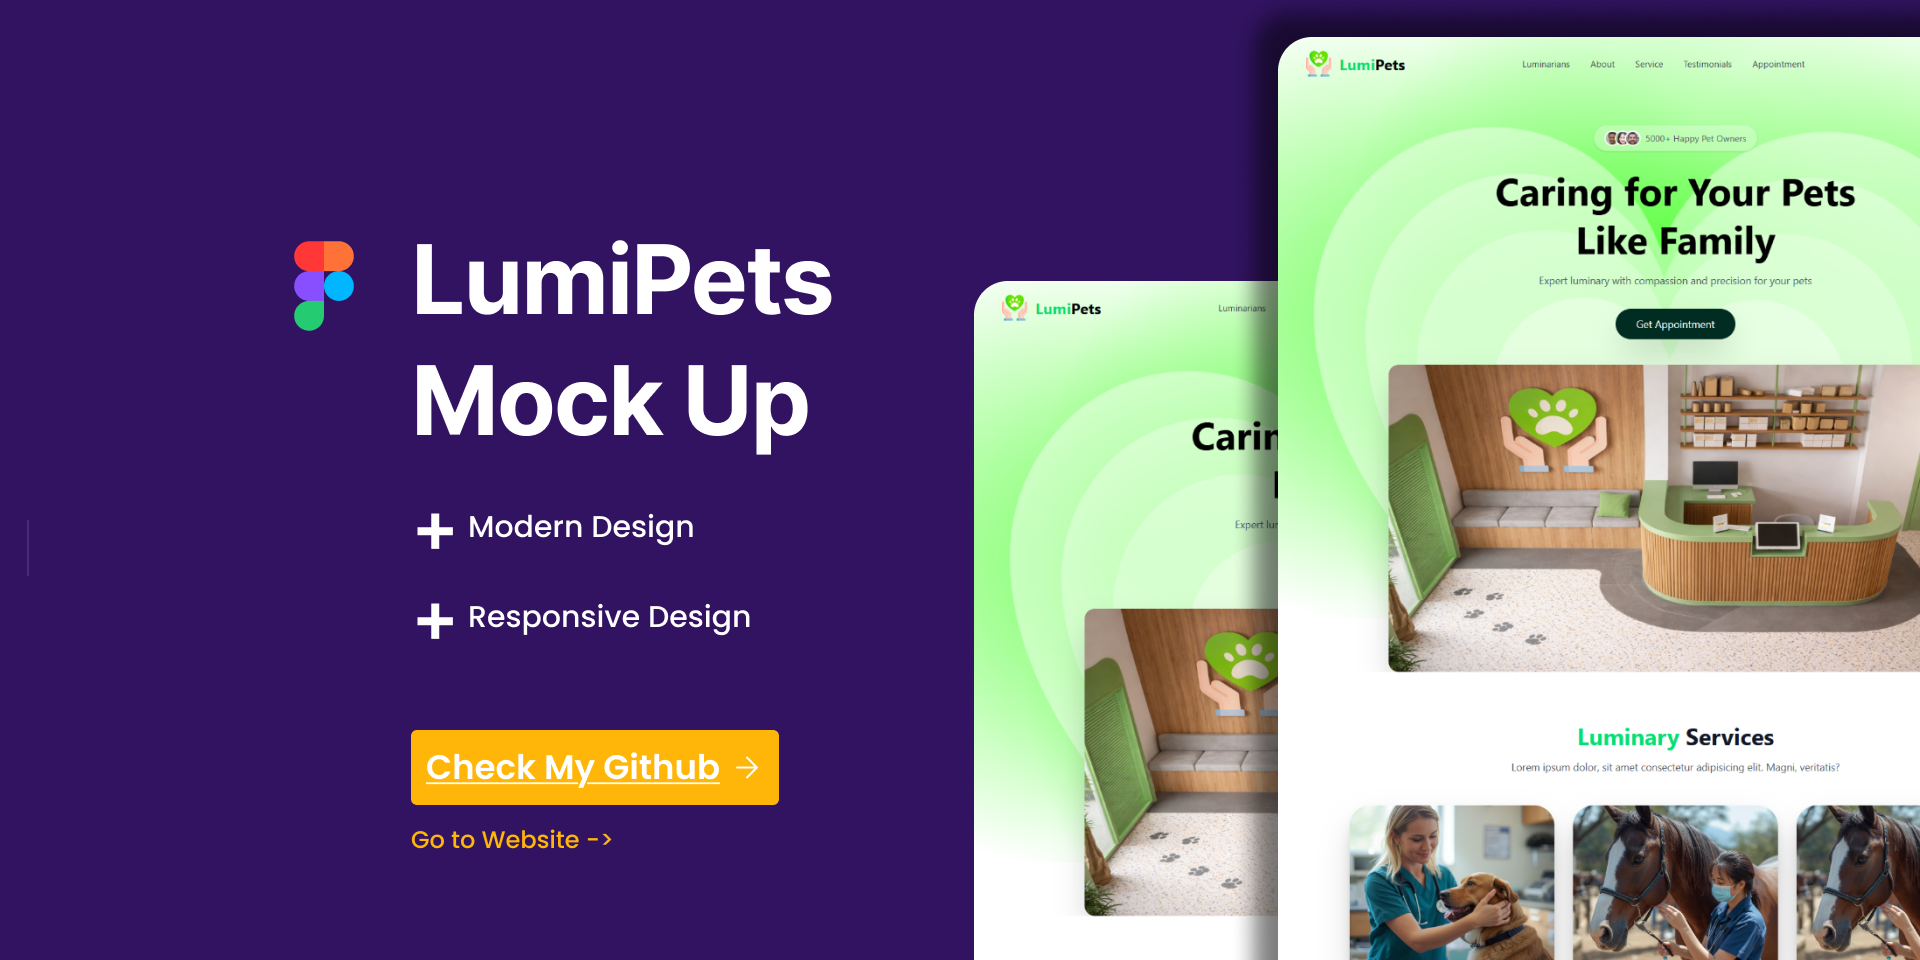
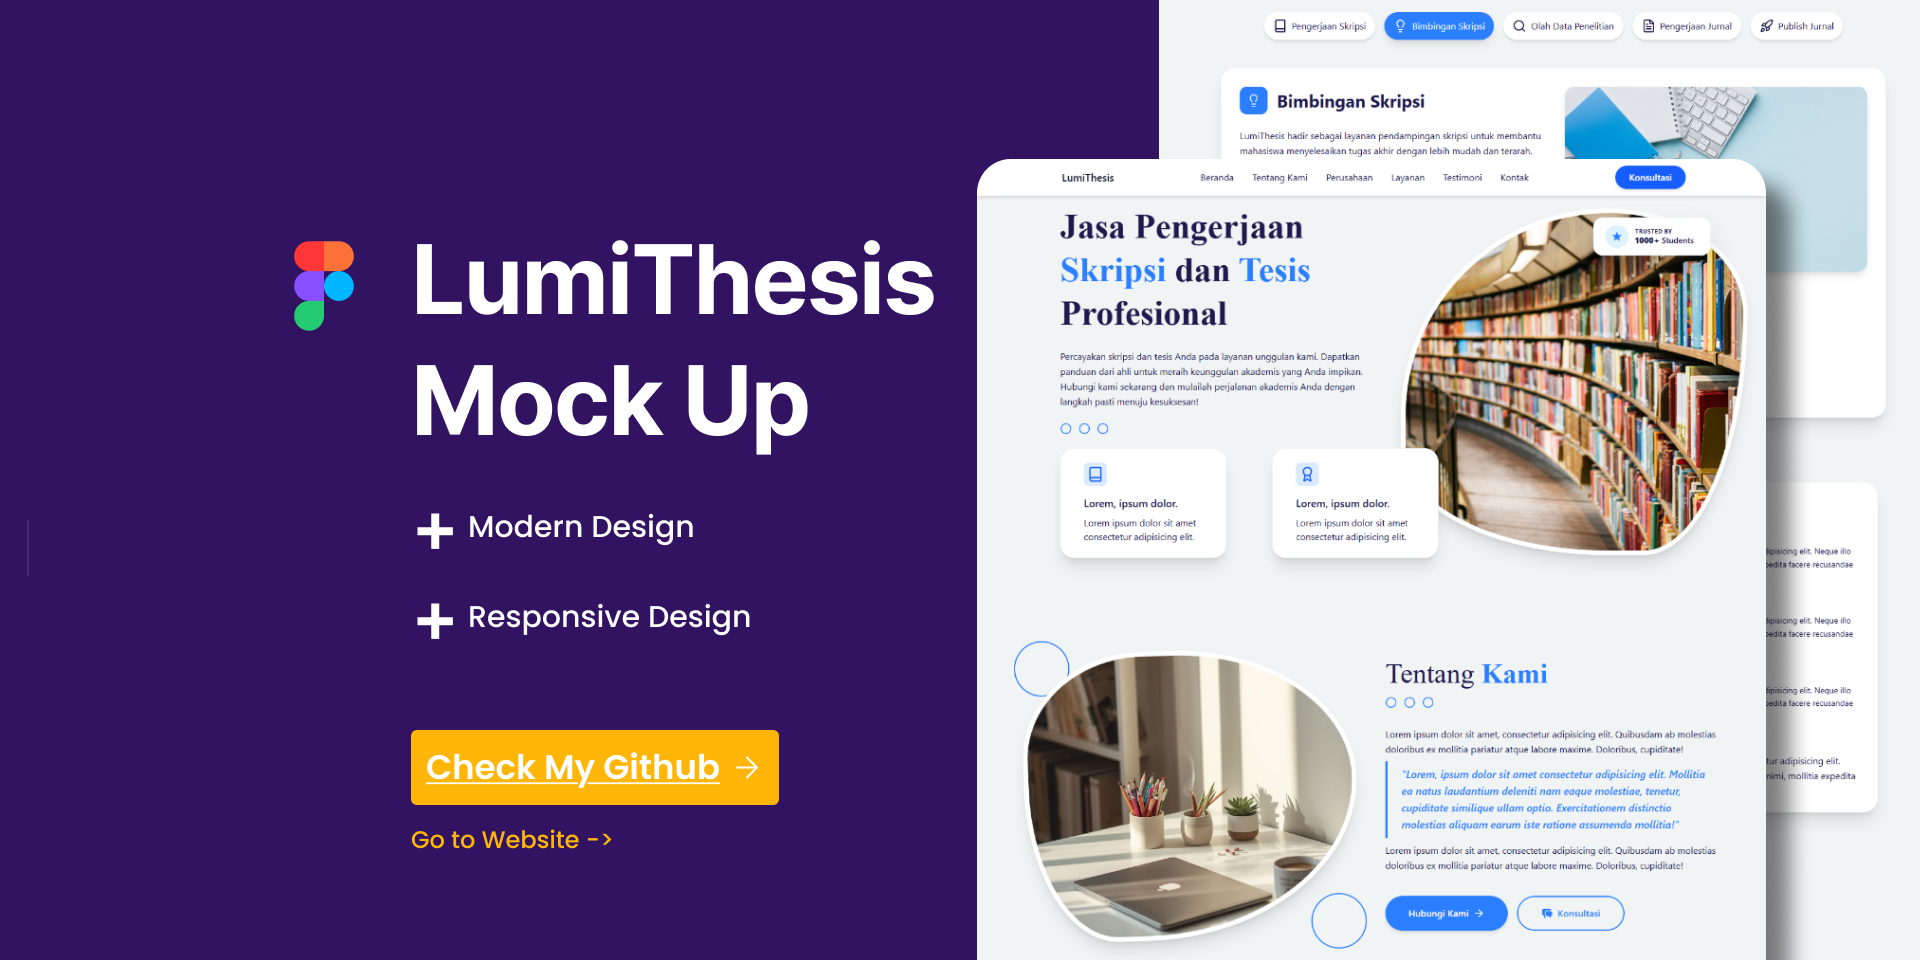
upload project

diff --git a/src/components/Projects.jsx b/src/components/Projects.jsx
@@ -3,6 +3,7 @@ import work1 from '../assets/work1.png'
 import work2 from '../assets/work2.png'
 import work3 from '../assets/work3.png'
 import work4 from '../assets/work4.png'
+import work5 from '../assets/work5.png'
 import { FaChevronLeft, FaChevronRight, FaExternalLinkAlt, FaGithub } from "react-icons/fa"
 import { motion } from 'framer-motion';
 
@@ -17,11 +18,14 @@ const Projects = () => {
         {id:2, title: "LumiSmile Website", category: 'Frontend',
             img: work2, tech: ['Tailwind CSS', 'Javascript', 'Reactjs'], github: "https://github.com/senmarutech/LumiSMile-Website ",
             live: "#"},
-        {id:3, title: "LumiPets Website", category: 'Frontend',
-            img: work3, tech: ['Tailwind CSS', 'Javascript', 'Reactjs'], github: "https://github.com/senmarutech/",
+        {id:3, title: "LumiThesis Website", category: 'Frontend',
+            img: work3, tech: ['Tailwind CSS', 'Javascript', 'Reactjs', 'Framer Motion'], github: "https://github.com/senmarutech/",
             live: "#"},
         {id:4, title: "LumiNails Website", category: 'Frontend',
             img: work4, tech: ['Tailwind CSS', 'Javascript', 'Reactjs', 'Framer Motion'], github: "https://github.com/senmarutech/LumiNails-Website",
+            live: "#"},
+        {id:5, title: "LumiPets Website", category: 'Frontend',
+            img: work5, tech: ['Tailwind CSS', 'Javascript', 'Reactjs'], github: "https://github.com/senmarutech/",
             live: "#"}
     ];
 